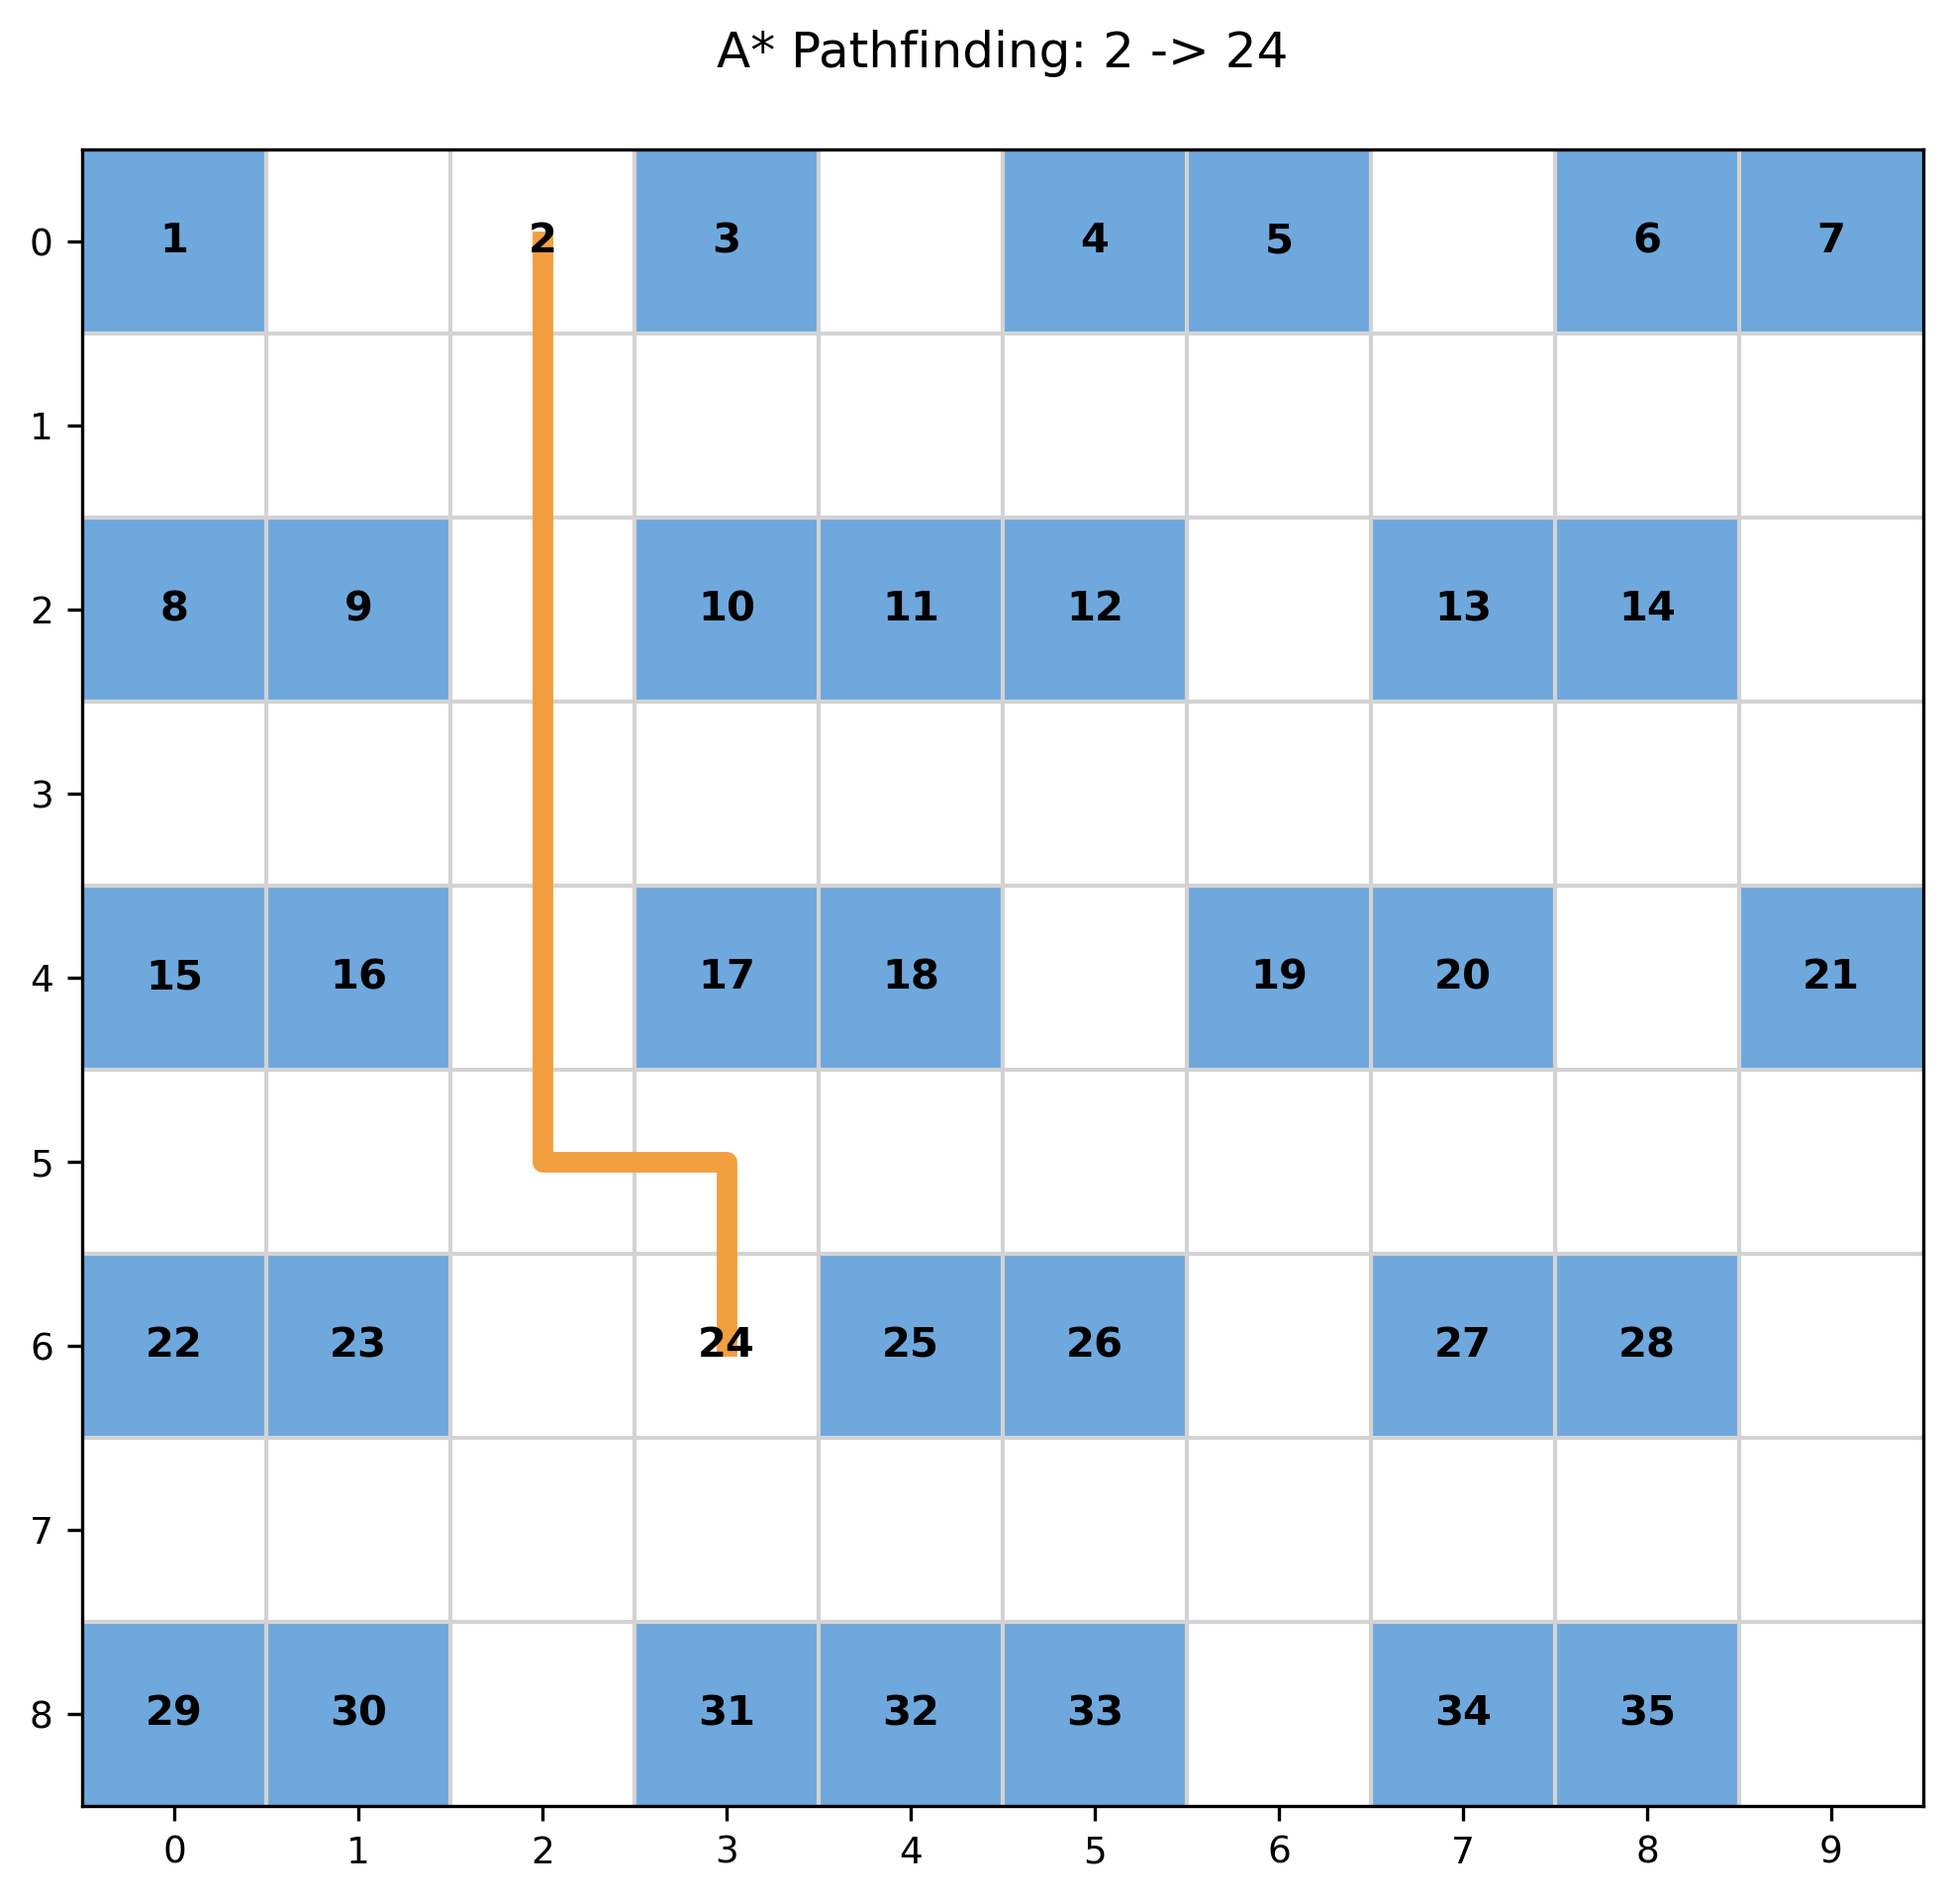
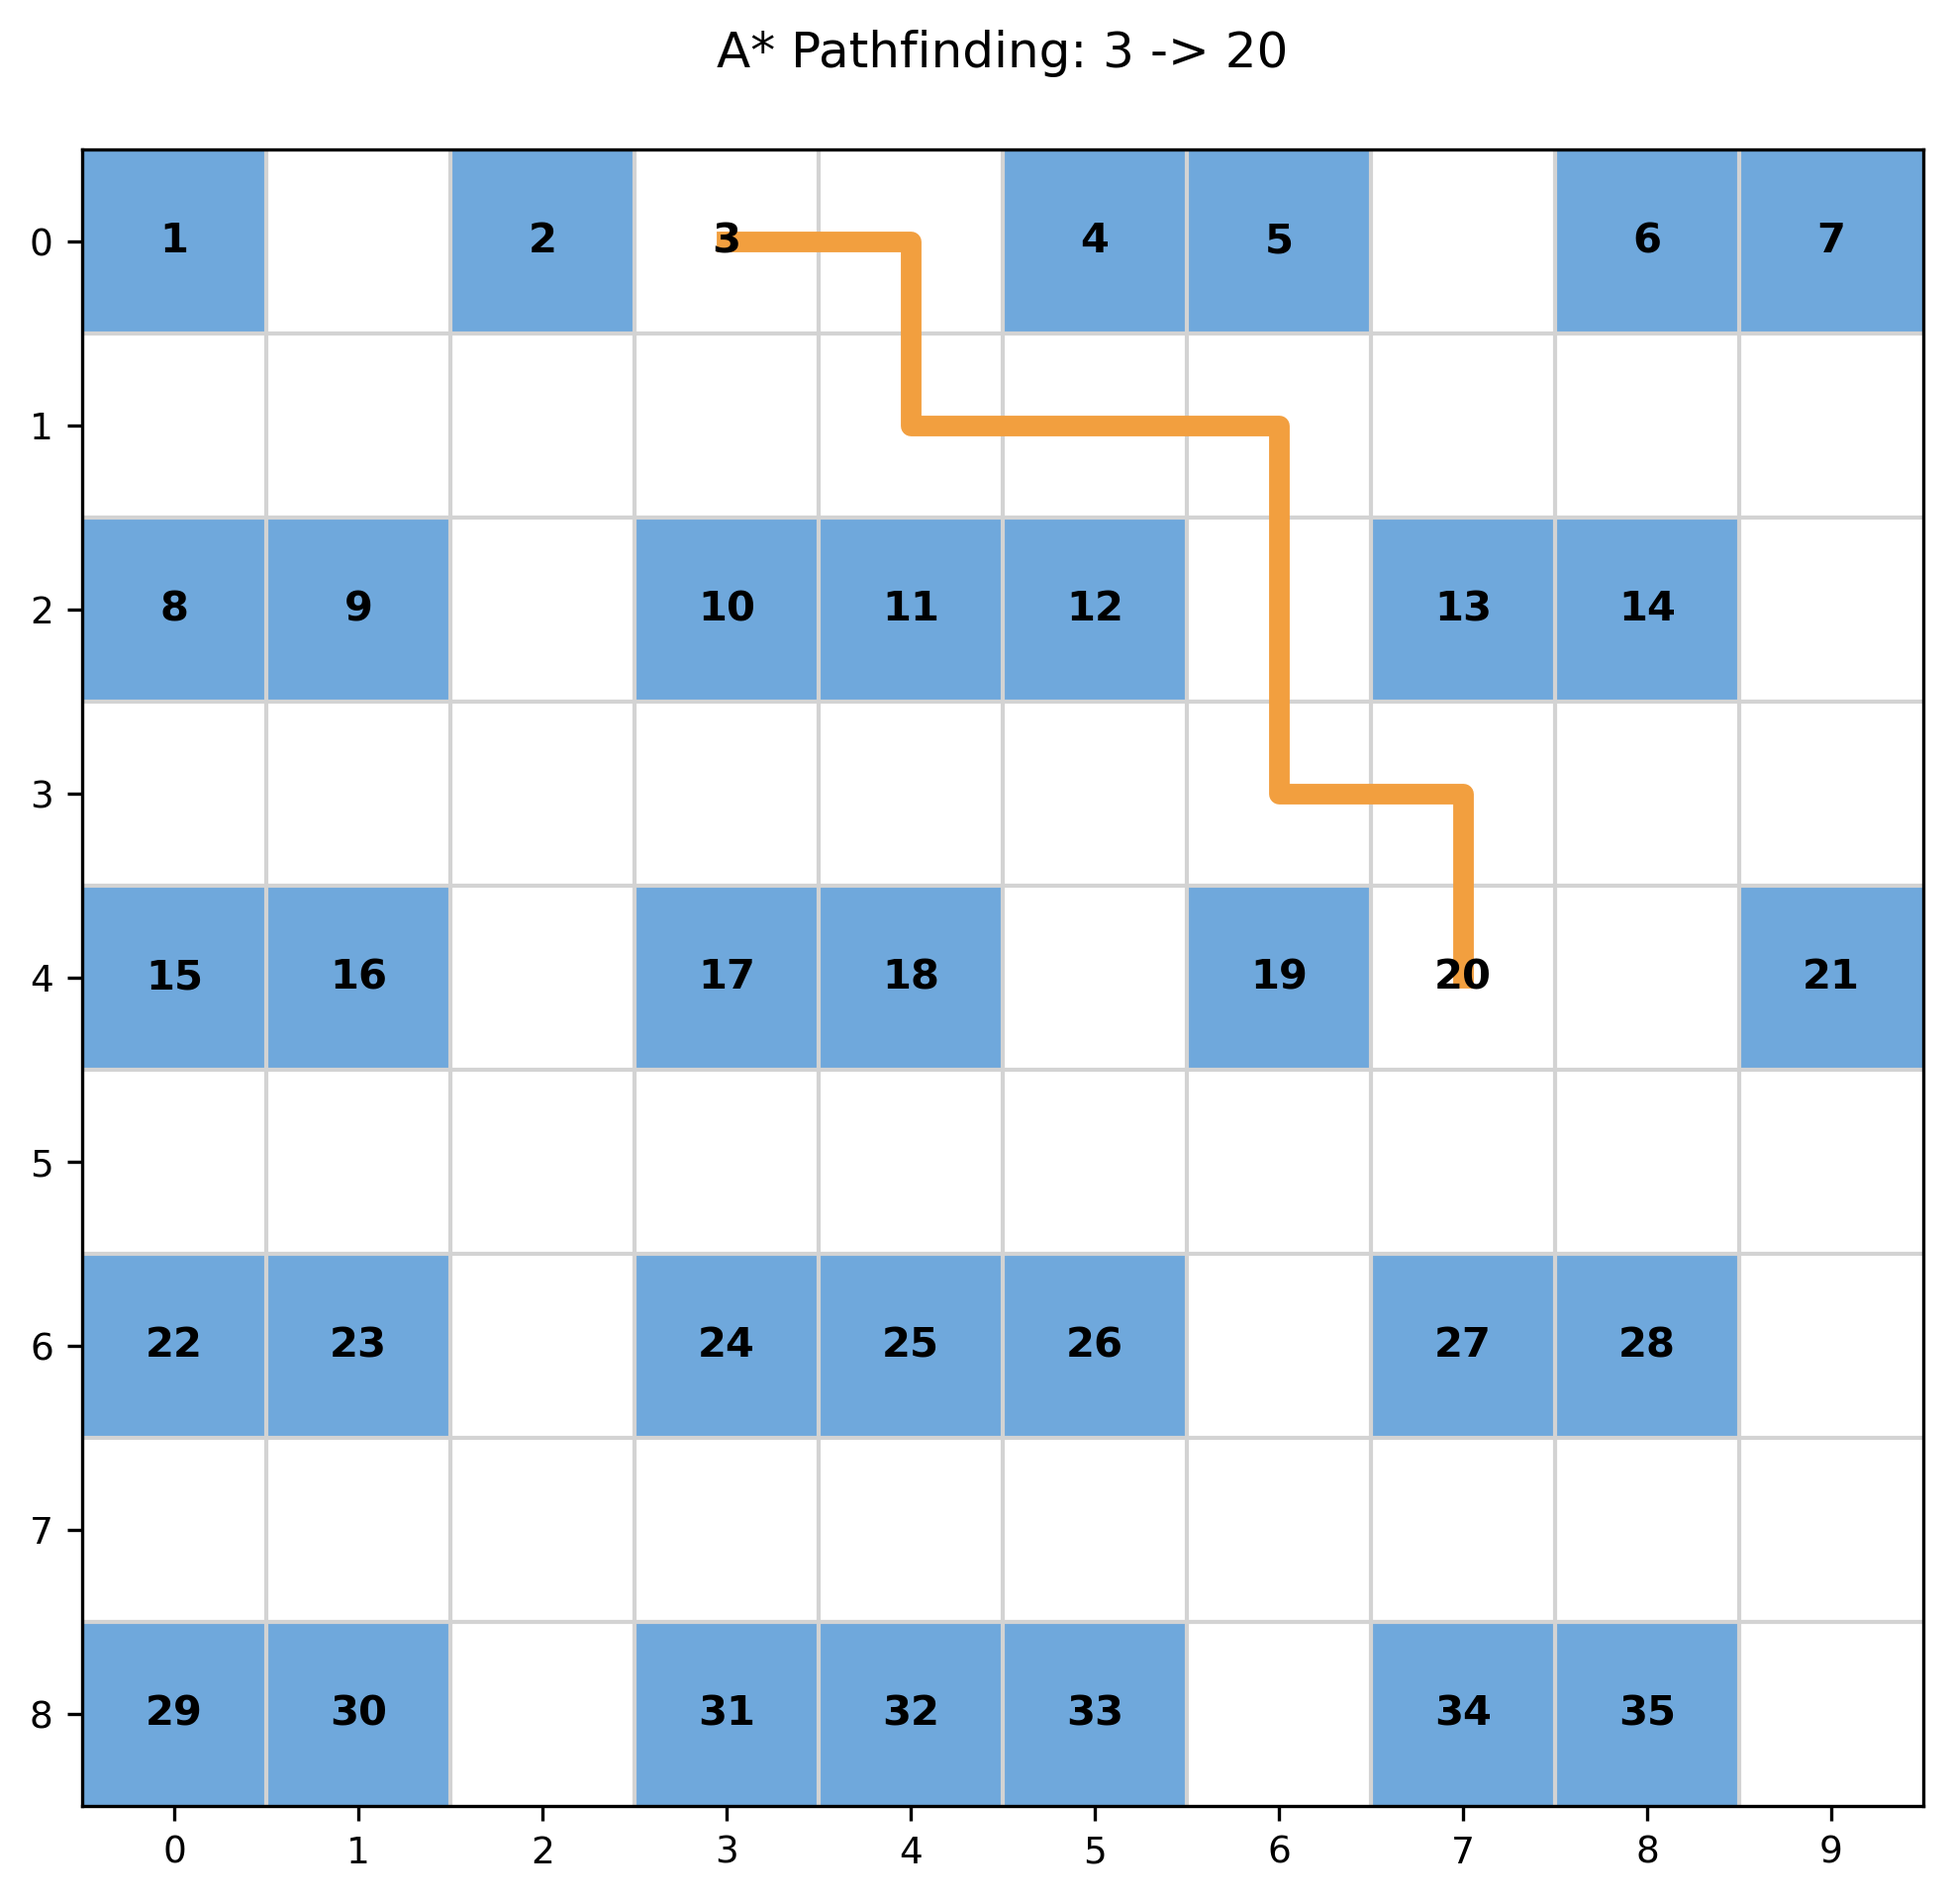
web

Changed region(s): [[0.2164, 0.0625, 0.8039, 0.7812]]

diff --git a/Astar_project.py b/Astar_project.py
@@ -1,6 +1,7 @@
 import heapq
 import matplotlib.pyplot as plt
 import matplotlib.colors as mcolors
+import numpy as np # Import thêm numpy để xử lý mảng tốt hơn nếu cần
 
 # ==========================================
 # 1. DỮ LIỆU BẢN ĐỒ
@@ -18,54 +19,42 @@ mini_map = [
 ]
 
 # ==========================================
-# 2. HÀM XỬ LÝ LOGIC
+# 2. CÁC HÀM LOGIC A* (Giữ nguyên)
 # ==========================================
-
-# Tìm tọa độ (hàng, cột) của một giá trị
 def tim_vi_tri(giatri, luoi):
     for r, dong in enumerate(luoi):
         for c, o in enumerate(dong):
-            if o == giatri:
-                return (r, c)
+            if o == giatri: return (r, c)
     return None
 
-# Tính khoảng cách Manhattan (Heuristic)
 def heuristic(nut, dich):
+    # Khoảng cách Manhattan
     return abs(nut[0] - dich[0]) + abs(nut[1] - dich[1])
 
-# Xác định các ô lân cận hợp lệ (Xử lý vật cản)
 def hang_xom(nut, batdau, dich, luoi):
     dong, cot = nut
     huong = [(-1,0), (1,0), (0,-1), (0,1)]
     ket_qua = []
-    
     for dx, dy in huong:
         nd, nc = dong + dx, cot + dy
         if 0 <= nd < len(luoi) and 0 <= nc < len(luoi[0]):
             o = luoi[nd][nc]
-            # Chỉ đi vào đường (.) hoặc điểm Start/End
+            # Đi được nếu là đường (.) hoặc điểm Start/End
             if o == "." or (nd, nc) == batdau or (nd, nc) == dich:
                 ket_qua.append((nd, nc))
     return ket_qua
 
-# Triển khai thuật toán A*
 def a_sao(batdau, dich, luoi):
-    mo = [] 
-    heapq.heappush(mo, (0, batdau))
+    mo = []; heapq.heappush(mo, (0, batdau))
     dong = set()
-    
     g_diem = {batdau: 0}
     f_diem = {batdau: heuristic(batdau, dich)}
     cha = {batdau: None}
-    
     so_node_duyet = 0 
 
     while mo:
         _, nut_hien_tai = heapq.heappop(mo)
-        
-        if nut_hien_tai in dong:
-            continue
-            
+        if nut_hien_tai in dong: continue
         dong.add(nut_hien_tai)
         so_node_duyet += 1
 
@@ -79,30 +68,27 @@ def a_sao(batdau, dich, luoi):
             return duong_di, g_diem[dich], so_node_duyet
 
         for xom in hang_xom(nut_hien_tai, batdau, dich, luoi):
-            if xom in dong:
-                continue
-                
+            if xom in dong: continue
             g_tam = g_diem[nut_hien_tai] + 1
             if xom not in g_diem or g_tam < g_diem[xom]:
                 g_diem[xom] = g_tam
                 f_diem[xom] = g_tam + heuristic(xom, dich)
                 cha[xom] = nut_hien_tai
                 heapq.heappush(mo, (f_diem[xom], xom))
-                
     return None, 0, so_node_duyet
 
 # ==========================================
-# 3. HÀM HIỂN THỊ & VẼ ĐỒ THỊ
+# 3. HÀM VẼ GIAO DIỆN PRO (Tích hợp số liệu & công thức)
 # ==========================================
-
-# Vẽ đồ thị đường đi và lưu ảnh (Matplotlib)
-def ve_do_thi_chuyen_nghiep(luoi, duong_di, batdau, dich, show_grid_labels=True):
+# Cập nhật thêm tham số cost và opened
+def ve_do_thi_chuyen_nghiep(luoi, duong_di, batdau, dich, cost, opened, show_grid_labels=True):
     rows = len(luoi)
     cols = len(luoi[0])
     
-    fig, ax = plt.subplots(figsize=(8, 8))
+    # Tăng kích thước khung hình để có chỗ cho phần text bên phải
+    fig, ax = plt.subplots(figsize=(12, 7)) 
     
-    # Tạo nền (0: Trắng, 1: Xanh nhạt)
+    # --- PHẦN 1: VẼ BẢN ĐỒ (Bên trái) ---
     color_map = [[0]*cols for _ in range(rows)]
     for r in range(rows):
         for c in range(cols):
@@ -112,29 +98,25 @@ def ve_do_thi_chuyen_nghiep(luoi, duong_di, batdau, dich, show_grid_labels=True)
     cmap = mcolors.ListedColormap(['white', '#6FA8DC']) 
     ax.imshow(color_map, cmap=cmap, origin='upper')
 
-    # Kẻ lưới
     ax.set_xticks([x - 0.5 for x in range(1, cols)], minor=True)
     ax.set_yticks([y - 0.5 for y in range(1, rows)], minor=True)
     ax.grid(which="minor", color="lightgray", linestyle='-', linewidth=1)
     ax.tick_params(which="minor", bottom=False, left=False)
 
-    # Vẽ đường đi
     if duong_di:
         path_y = [p[0] for p in duong_di]
         path_x = [p[1] for p in duong_di]
         ax.plot(path_x, path_y, color='#F29F3F', linewidth=5, zorder=2, label='Đường đi')
 
-    # (ĐÃ XÓA) Phần vẽ chữ A và B to để tránh che số
-
-    # Hiển thị số nhà lên tất cả các ô (bao gồm start/end)    
+    ax.text(batdau[1], batdau[0], 'A', ha='center', va='center', color='black', fontsize=16, fontweight='bold', zorder=3)
+    ax.text(dich[1], dich[0], 'B', ha='center', va='center', color='black', fontsize=16, fontweight='bold', zorder=3)
+            
     for r in range(rows):
         for c in range(cols):
             txt = luoi[r][c]
             if txt != '.':
-                # Vẽ số màu đen, font vừa phải
-                ax.text(c, r, txt, ha='center', va='center', color='black', fontsize=10, fontweight='bold', zorder=3) 
+                ax.text(c, r, txt, ha='center', va='center', color='black', fontsize=9) 
 
-    # Hiển thị tọa độ trục
     if show_grid_labels:
         ax.set_xticks(range(cols)); ax.set_xticklabels([f"{i}" for i in range(cols)], fontsize=9)
         ax.set_yticks(range(rows)); ax.set_yticklabels([f"{i}" for i in range(rows)], fontsize=9)
@@ -142,12 +124,43 @@ def ve_do_thi_chuyen_nghiep(luoi, duong_di, batdau, dich, show_grid_labels=True)
         ax.set_xticks([]); ax.set_yticks([])
 
     ax.set_xlim(-0.5, cols-0.5); ax.set_ylim(rows-0.5, -0.5)
-    plt.title(f"A* Pathfinding: {luoi[batdau[0]][batdau[1]]} -> {luoi[dich[0]][dich[1]]}", pad=20, fontsize=12)
+    plt.title(f"A* Pathfinding Demo: {luoi[batdau[0]][batdau[1]]} -> {luoi[dich[0]][dich[1]]}", pad=20, fontsize=14, fontweight='bold')
+
+    # --- PHẦN 2: VẼ SỐ LIỆU & CÔNG THỨC (Bên phải) ---
+    # Điều chỉnh lề phải để tạo khoảng trống cho text
+    plt.subplots_adjust(right=0.7)
     
-    plt.savefig("ket_qua_a_star.png", dpi=300, bbox_inches='tight')
+    # Vị trí x bắt đầu của cột text (tương đối so với khung hình, từ 0 đến 1)
+    text_x = 0.75 
+    
+    # 2.1. Thống kê kết quả
+    plt.figtext(text_x, 0.85, "KẾT QUẢ THỰC NGHIỆM", fontsize=12, fontweight='bold', color='darkblue')
+    plt.figtext(text_x, 0.80, f"• Tổng chi phí (Cost): {cost}", fontsize=11)
+    plt.figtext(text_x, 0.76, f"• Số node đã duyệt: {opened}", fontsize=11)
+    
+    # 2.2. Công thức thuật toán (Sử dụng LaTeX để render đẹp mắt)
+    plt.figtext(text_x, 0.65, "CÔNG THỨC A* CỐT LÕI", fontsize=12, fontweight='bold', color='darkred')
+    # Sử dụng raw string (r"...") để viết công thức LaTeX
+    plt.figtext(text_x, 0.58, r"$f(n) = g(n) + h(n)$", fontsize=14, color='black', bbox={'facecolor':'yellow', 'alpha':0.2, 'pad':5})
+    
+    plt.figtext(text_x, 0.52, "Trong đó:", fontsize=10, fontstyle='italic')
+    plt.figtext(text_x+0.02, 0.48, "- f(n): Tổng chi phí ước tính", fontsize=10)
+    plt.figtext(text_x+0.02, 0.45, "- g(n): Chi phí thực từ Start", fontsize=10)
+    plt.figtext(text_x+0.02, 0.42, "- h(n): Heuristic ước tính đến End", fontsize=10)
+
+    # 2.3. Hàm Heuristic sử dụng
+    plt.figtext(text_x, 0.32, "HEURISTIC (MANHATTAN)", fontsize=12, fontweight='bold', color='green')
+    plt.figtext(text_x, 0.25, r"$h(n) = |x_1 - x_2| + |y_1 - y_2|$", fontsize=12, color='black')
+
+    # Lưu ảnh chất lượng cao
+    filename = f"astar_result_{luoi[batdau[0]][batdau[1]]}_to_{luoi[dich[0]][dich[1]]}.png"
+    plt.savefig(filename, dpi=300, bbox_inches='tight')
+    print(f"\n📸 Đã lưu ảnh kết quả chuyên nghiệp vào file: {filename}")
     plt.show()
 
-# In bản đồ ra Terminal
+# ==========================================
+# 4. IN BẢN ĐỒ GỐC
+# ==========================================
 def in_ban_do_goc(luoi):
     print("\n[BẢN ĐỒ HIỆN TẠI]")
     cols = len(luoi[0])
@@ -158,29 +171,25 @@ def in_ban_do_goc(luoi):
     print("\n")
 
 # ==========================================
-# 4. CHƯƠNG TRÌNH CHÍNH
+# 5. CHƯƠNG TRÌNH CHÍNH
 # ==========================================
 if __name__ == "__main__":
     in_ban_do_goc(mini_map) 
-    
-    print("--- TÌM ĐƯỜNG A* (House Delivery) ---")
-    # Hiển thị rõ giới hạn input cho người dùng
-    b_val = input("Nhập số nhà bắt đầu (Giới hạn: 1-35): ").strip()
-    d_val = input("Nhập số nhà kết thúc (Giới hạn: 1-35): ").strip()
+    print("--- TÌM ĐƯỜNG A* PRO VISUALIZATION ---")
+    b_val = input("Nhập số nhà bắt đầu (1-35): ").strip()
+    d_val = input("Nhập số nhà kết thúc (1-35): ").strip()
 
     bd = tim_vi_tri(b_val, mini_map)
     dc = tim_vi_tri(d_val, mini_map)
 
     if not bd or not dc:
-        print("❌ LỖI: Số nhà không tồn tại hoặc nằm ngoài giới hạn 1-35!")
+        print("❌ LỖI: Số nhà không hợp lệ!")
     else:
         path, cost, opened = a_sao(bd, dc, mini_map)
         
         if path:
-            print(f"\n✅ TÌM THẤY ĐƯỜNG ĐI")
-            print(f"🔹 Chi phí (Cost): {cost}")
-            print(f"🔹 Node đã duyệt: {opened}")
-            print("Đang hiển thị bản đồ...")
-            ve_do_thi_chuyen_nghiep(mini_map, path, bd, dc)
+            print(f"\n✅ TÌM THẤY ĐƯỜNG ĐI! Đang tạo hình ảnh báo cáo...")
+            # Gọi hàm vẽ mới với đầy đủ tham số
+            ve_do_thi_chuyen_nghiep(mini_map, path, bd, dc, cost, opened)
         else:
             print("❌ KHÔNG TÌM THẤY ĐƯỜNG ĐI (Bị chặn)!")
